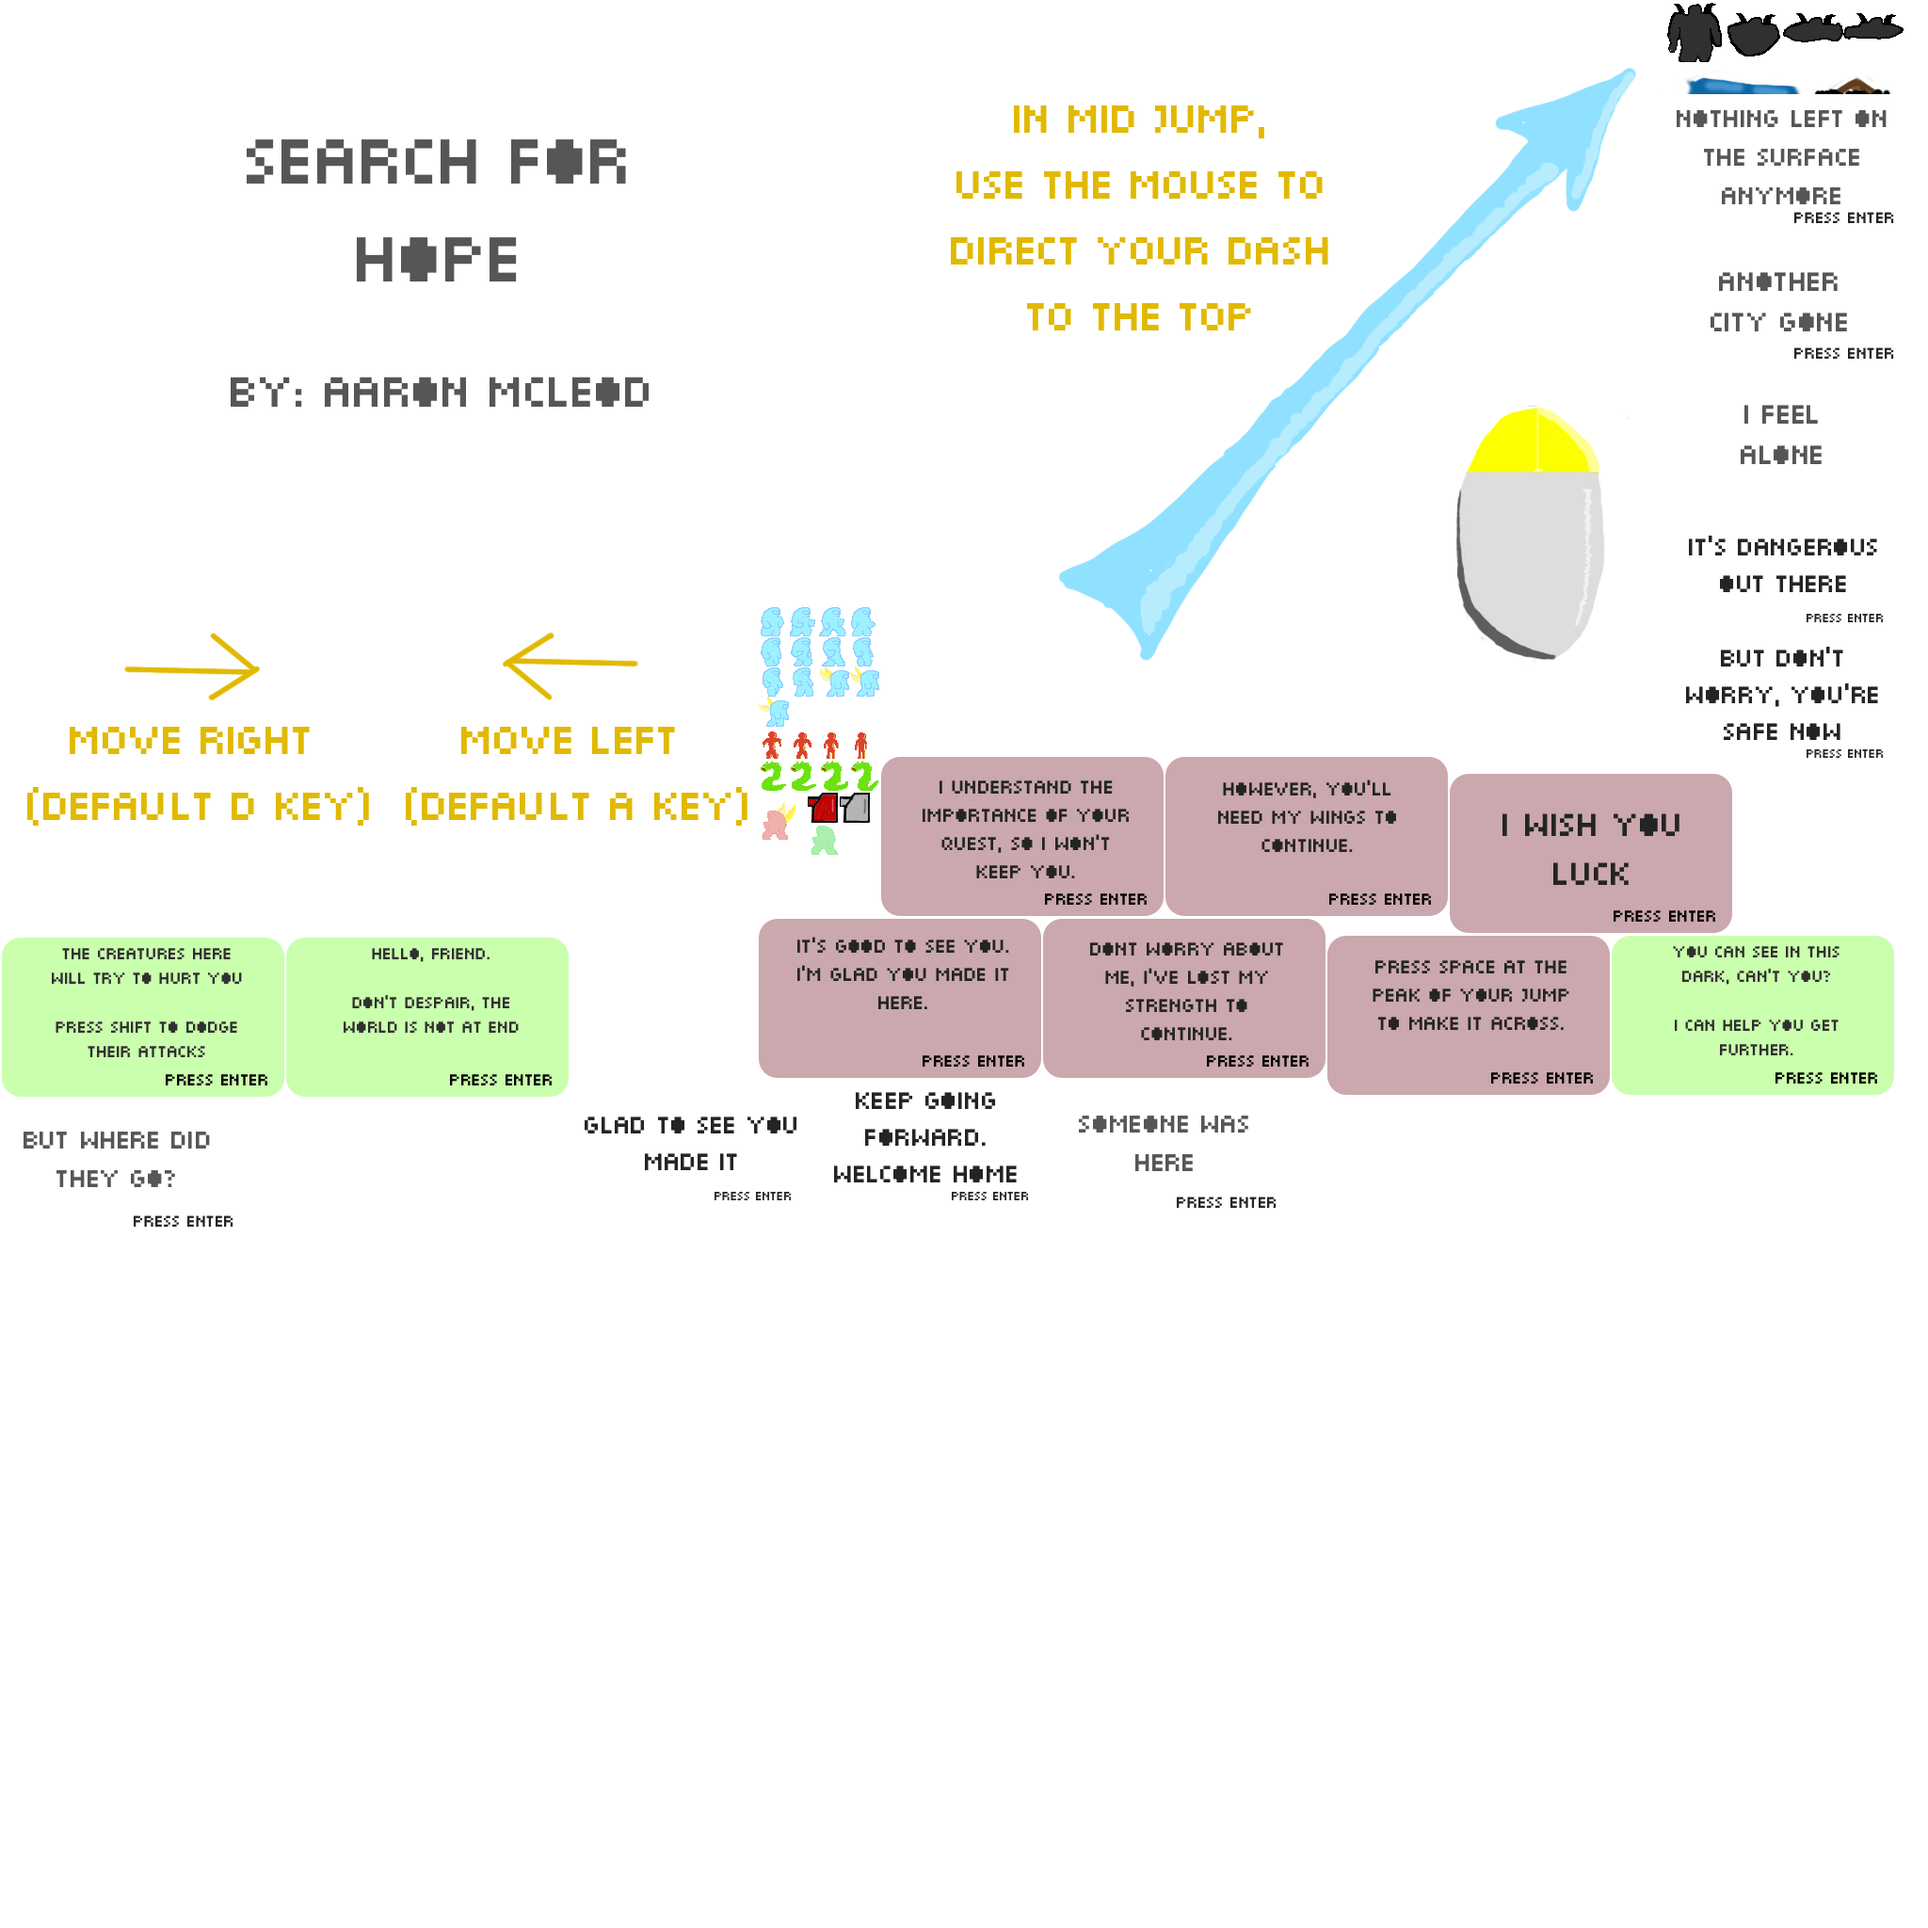
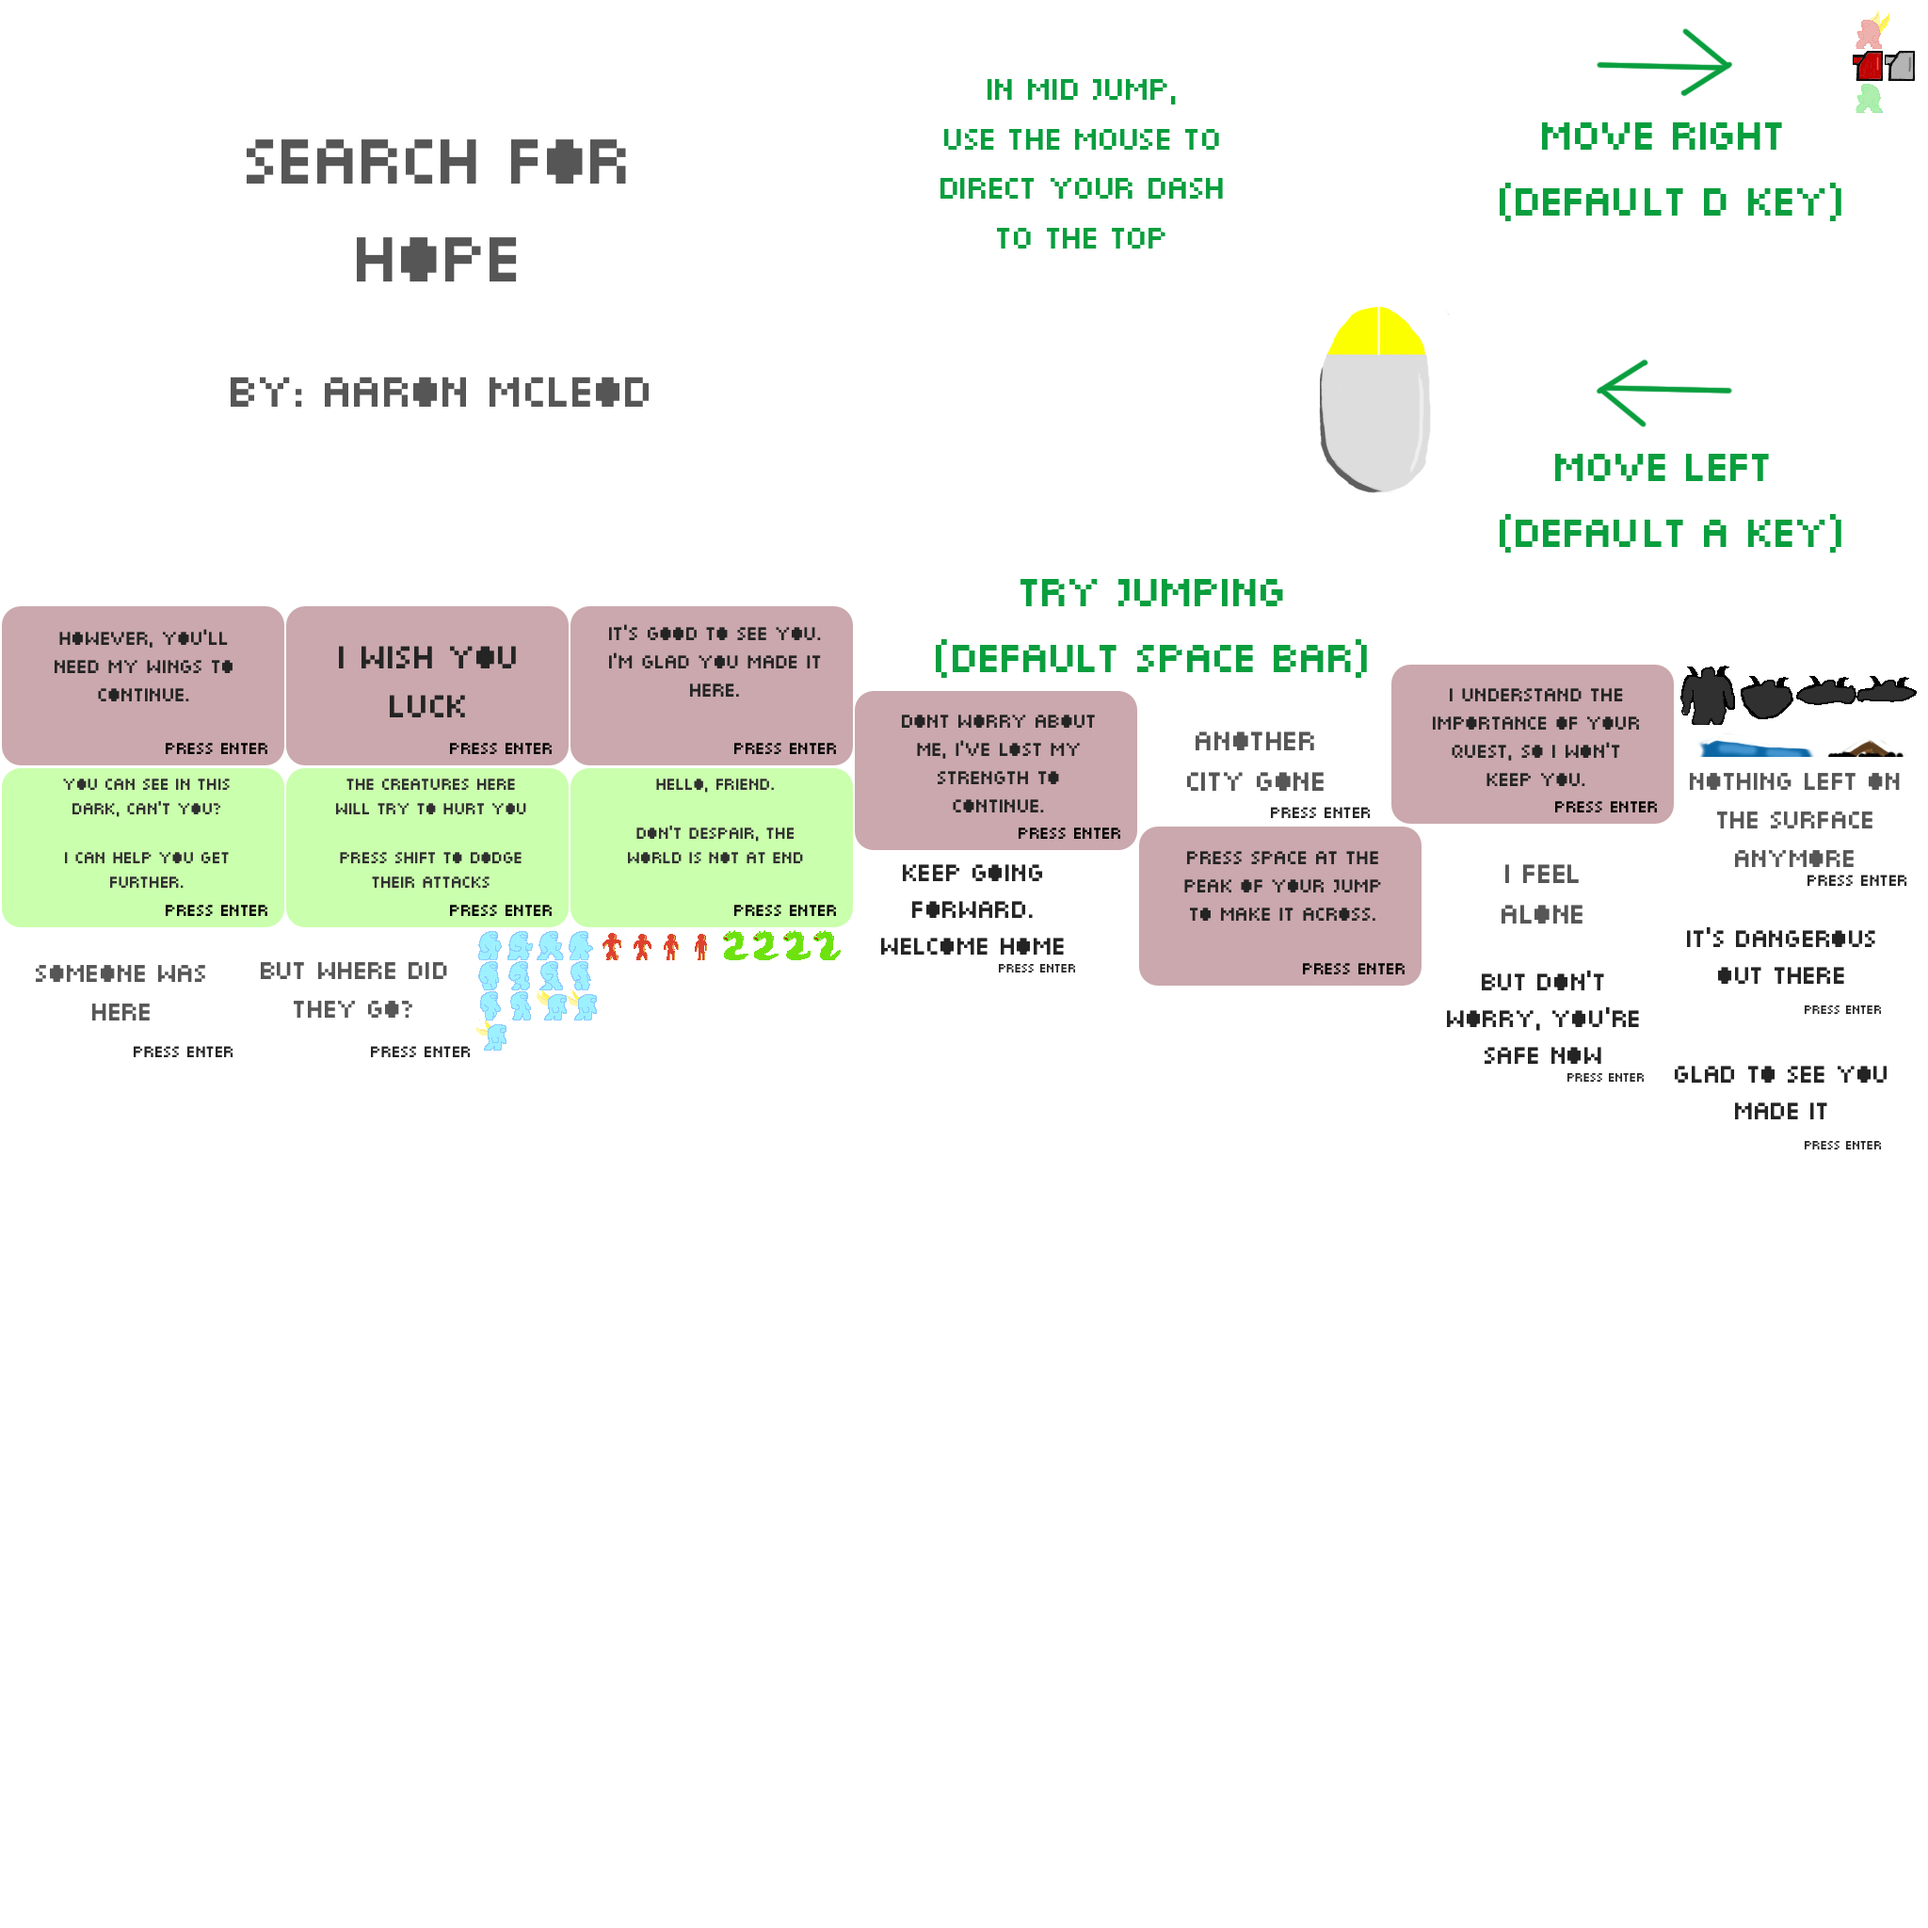
instructions implemented

Changed region(s): [[0.0, 0.0, 1.0, 0.625], [0.5, 0.0312, 0.6875, 0.1875]]

diff --git a/js/instructions_manager.js b/js/instructions_manager.js
@@ -1,0 +1,76 @@
+game.InstructionsManager = {
+  init: function () {
+    this.state = 'left';
+    var region = game.atlas.getRegion("instructions-left.png");
+    var sprite = new me.Sprite(50, 0, game.atlas.getTexture(), region.width, region.height);
+    sprite.offset.setV(region.offset);
+    sprite.floating = true;
+    me.game.world.addChild(sprite, 10);
+    this.sprite = sprite;
+  },
+
+  nextState: function (state) {
+    var _this = this;
+    if (this.transitioning || state !== this.state) {
+      return null;
+    }
+    switch (this.state) {
+      case "left":
+        this.transitioning = true;
+        this.state = 'right';
+        this.tweenSprite(function () {
+          var region = game.atlas.getRegion("instructions-right.png");
+          _this.sprite.offset.setV(region.offset);
+          _this.sprite.resize(region.width, region.height);
+          _this.sprite.pos.x = 550;
+        });
+
+        break;
+      case "right":
+        this.state = "jump";
+        this.transitioning = true;
+        this.tweenSprite(function () {
+          var region = game.atlas.getRegion("jump-instructions.png");
+          _this.sprite.offset.setV(region.offset);
+          _this.sprite.resize(region.width, region.height);
+          _this.sprite.pos.x = 250;
+          _this.sprite.pos.y = 50;
+        });
+        break;
+      case "jump":
+        this.transitioning = true;
+        me.pool.pull("me.Tween", this.sprite).to({ alpha: 0.0 }).start().onComplete(function () {
+          _this.state = 'dash';
+          _this.transitioning = false;
+        });
+        break;
+      case "dash":
+        var region = game.atlas.getRegion("dashinstructions.png");
+        this.sprite.offset.setV(region.offset);
+        this.sprite.resize(region.width, region.height);
+        this.sprite.pos.set(350, 0);
+        me.pool.pull("me.Tween", this.sprite).to({ alpha: 1.0 }).start().onComplete(function () {
+          _this.state = 'dashhide';
+          _this.transitioning = false;
+          me.timer.setTimeout(function () {
+            me.pool.pull("me.Tween", _this.sprite).to({ alpha: 0.0 }).start().onComplete(function () {
+              me.game.world.removeChild(_this.sprite);
+              _this.transitioning = false;
+            });
+          }, 1800);
+        });
+        break;
+      default:
+        break;
+    }
+  },
+
+  tweenSprite: function (callback) {
+    var _this = this;
+    me.pool.pull("me.Tween", this.sprite).to({ alpha: 0.0 }, 600).start().onComplete(function () {
+      _this.transitioning = false;
+      callback();
+      me.pool.pull("me.Tween", _this.sprite).to({ alpha: 1.0 }, 600).start();
+    });
+  }
+};

diff --git a/js/screens/play_screen.js b/js/screens/play_screen.js
@@ -87,11 +87,8 @@ game.PlayScreen = me.ScreenObject.extend({
     var levelString = location.hash.indexOf('#level=') !== -1 ? (location.hash + '').replace('#level=','') : 'intro';
 
     me.levelDirector.loadLevel(levelString);
-
-    if (levelString === "intro") {
-      var player = me.game.world.getChildByName('player')[0];
-      this.startDialogue(player.pos.x, player.pos.y, ["messageone.png"], player.pos);
-    }
+    this.instructionsComplete = false;
+    game.InstructionsManager.init();
   },
 
 
@@ -107,6 +104,12 @@ game.PlayScreen = me.ScreenObject.extend({
     me.input.unbindPointer();
   },
 
+  nextInstructions: function (state) {
+    if (!this.instructionsComplete) {
+      this.instructionsComplete = game.InstructionsManager.nextState(state);
+    }
+  },
+
   registerEntities: function () {
     me.pool.register('blackthing', game.BlackThing, true);
     me.pool.register('campsite', game.Campsite, false);
@@ -117,6 +120,7 @@ game.PlayScreen = me.ScreenObject.extend({
     me.pool.register('glide', game.GlideItem);
     me.pool.register('greenthing', game.GreenThing, true);
     me.pool.register('greet', game.GreetNPC, false);
+    me.pool.register('me.Tween', me.Tween);
     me.pool.register('player', game.Player);
     me.pool.register('projectile', game.Projectile);
     me.pool.register('redthing', game.RedThing, true);

diff --git a/js/entities/player.js b/js/entities/player.js
@@ -64,11 +64,13 @@ game.Player = me.Entity.extend({
         this.renderable.flipX(true);
         this.body.vel.x -= this.body.accel.x * me.timer.tick;
         this.movementSetup();
+        game.playScreen.nextInstructions("left");
       }
       else if (me.input.isKeyPressed('right')) {
         this.renderable.flipX(false);
         this.body.vel.x += this.body.accel.x * me.timer.tick;
         this.movementSetup();
+        game.playScreen.nextInstructions("right");
       }
     }
 
@@ -86,6 +88,7 @@ game.Player = me.Entity.extend({
     }
 
     if (me.input.isKeyPressed('jump')) {
+      game.playScreen.nextInstructions("jump");
       this.jumpState = (this.body.vel.y === 0)?1:this.jumpState;
 
       if (this.canGlide && !this.gliding && this.jumpState > 1) {
@@ -158,6 +161,14 @@ game.Player = me.Entity.extend({
         else if (other.type === "lava") {
           this.health = 0;
           this.takeDamage();
+        }
+        else if (other.type === 'dashpoint') {
+          game.playScreen.nextInstructions("dash");
+          return false;
+        }
+        else if (other.type === 'dashhide') {
+          game.playScreen.nextInstructions("dashhide");
+          return false;
         }
         return true;
         break;

diff --git a/index.html b/index.html
@@ -55,6 +55,7 @@
     <script type="text/javascript" src="js/sprites/dialogue.js"></script>
 
     <script type="text/javascript" src="js/screens/play_screen.js"></script>
+    <script type="text/javascript" src="js/instructions_manager.js"></script>
     <!-- /build -->
     <!-- Bootstrap & Mobile optimization tricks -->
     <script type="text/javascript">
